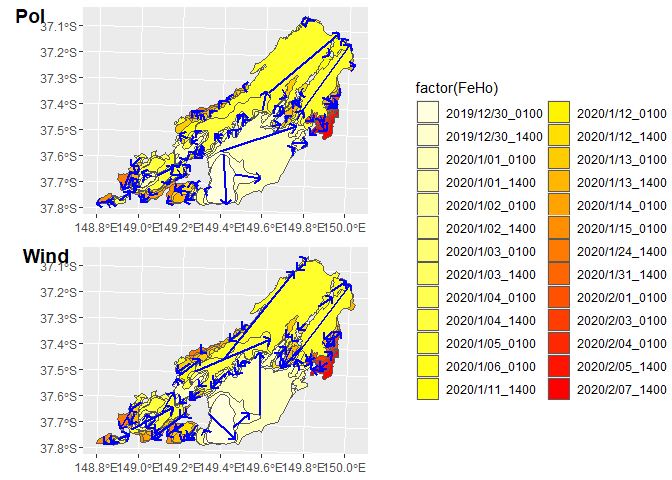
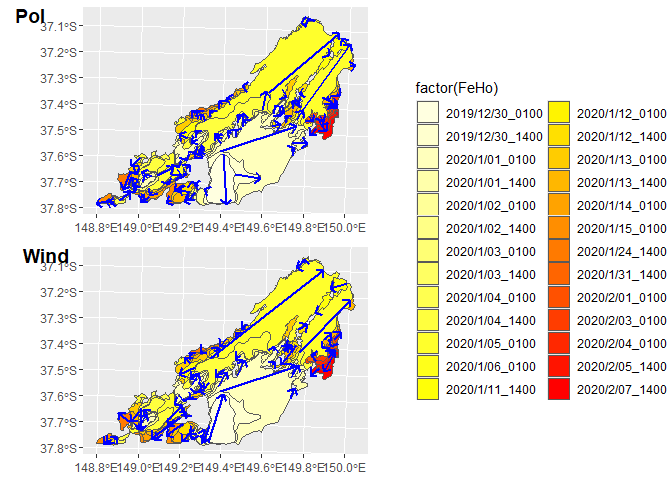
update README for project

Changed region(s): [[0.1562, 0.5312, 0.5312, 0.9375]]

diff --git a/README.md b/README.md
@@ -7,18 +7,26 @@
 <!-- badges: end -->
 
 This project aims to analyse the post fire effects and relate the
-influence of fire run speed to environmental change.
+influence of fire run speed to environmental change. The process
+comprises two parts of algorithms. In `Data Preparation` we produce fire
+runs using algorithms from
+[AndreaDuane/FireRuns](https://github.com/AndreaDuane/FireRuns). But we
+will use the modified version [Runs2](R/fun/Runs_AllArrows.r) to compare
+the fire runs in a wider range.
 
-### Package Requirement
+For severity analysis, the `severityCalc` algorithm calls the Google
+Earth Engine API with Python, and stores the output maps on the Google
+drive. For `driveDownload` algorithm, the output maps will be downloaded
+from the Google drive of the same account.
 
-**R Environment**:`FireRuns`, `ecmwfr`
-
-**Python Environment**: `earthengine-api`, `geemap`
+Later in the `Data Analysis`, fire runs were used to retrieve the
+severity pixels on corresponding places, for the comparison with the
+other pixels random sampled on the fire perimeter at the same timing.
 
 ## Workflow
 
 <img src="./man/figures/workflow.png" style="width:100.0%"
-alt="Image Title" />.
+alt="Overview of the workflow" />.
 
 ------------------------------------------------------------------------
 
@@ -33,25 +41,37 @@ You can install the development version of FireRuns like so:
 ## Example
 
 `area_process()` will look into the data folder named with `"GIF14_Au"`
-to process the fire run calculation. The results are like the following:
+to process the fire run calculation. This uses the original version of
+algorithm from
+[AndreaDuane/FireRuns](https://github.com/AndreaDuane/FireRuns), which
+calculates one max run per `FeHo` selected regardless of the amount of
+polygons included at a time. The results are like the following:
 
 ``` r
-area_process("GIF14_Au")
+area_process("GIF14_Au", do_plot = T)
 ```
 
 <img src="man/figures/README-example-maxRun-1.png" width="50%" />
 
-`area_process_allArrow()` outputs max runs in all polygons. The
-`areaList` helps run algorithm in a row with preset parameters.
+The function considers the column `OBJECTID` as unique polygon ID while
+`FeHo` as unique timing for calculating fire runs. Therefore you can 1.
+modify the data input to select the column with unique values and
+correct date time information or 2. change the argument in
+`area_process()` or `area_process_allArrow()` as following:
 
 ``` r
-areaList = list(c(aoi = "GIF14_Au",   nameID = "OBJECTID",   nameFeho_i = "FeHo"),
-                c(aoi = "LaJonquera", nameID = "ObjectIDgo", nameFeho_i = "FeHo"),
-                c(aoi = "LC1",        nameID = "ObjectID",   nameFeho_i = "FeHo"),
-                c(aoi = "StLlorenc",  nameID = "OBJECTID",   nameFeho_i = "FeHo_2")
-)
-aa = areaList[[1]]
-area_process_allArrow(aa[['aoi']],  aa[['nameID']], aa[['nameFeho_i']])
+# area_process("GIF14_Au", nameID_i = "OBJECTID", nameFeho_i = "FeHo")
+# area_process_allArrow("GIF14_Au", nameID_i = "OBJECTID", nameFeho_i = "FeHo")
+```
+
+`area_process_allArrow()` outputs max runs in all polygons instead of
+only one max run in one polygon per `FeHo` selected. This version uses
+the modified algorithm [`Runs2()`](R/fun/Runs_AllArrows.r) in this
+project. Therefore the analysis can be conducted on each polygon with
+valid max fire run.
+
+``` r
+area_process_allArrow("GIF14_Au", do_plot = T)
 ```
 
 <img src="man/figures/README-example-allRun-1.png" width="50%" />
